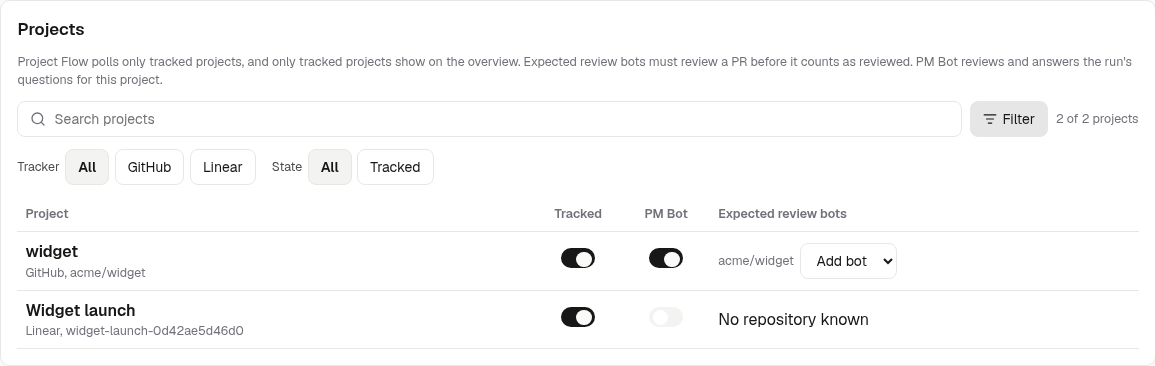
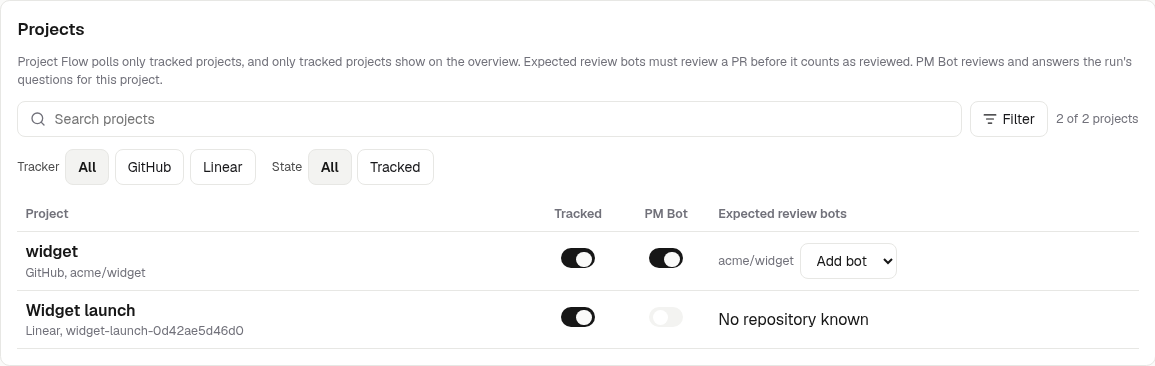
test(proof): record the revision of each shot
Add a capture script that takes the before shots from the merge base, adds
the States, Review and Factories sections and records both revisions with
each hash.

Changed region(s): [[0.8416, 0.2705, 0.9039, 0.3907]]

diff --git a/proof/item-779/CAPTURES.md b/proof/item-779/CAPTURES.md
@@ -1,0 +1,19 @@
+# Captures of ticket 779
+
+`proof/capture-779.sh` wrote this file. Run the script again to regenerate it.
+
+- Each `*-before.png` shows the merge base `224ce720e8641c081c27883f6bb763827e6fad59`.
+- Each `*-after.png` shows `7d487caa0ed51bf2aa4f606d1536226fda62c54e`.
+- The base tree serves `proof/serve-779.ts` and `proof/recorded.ts` of the second revision.
+
+| Shot               | Before sha256                                                      | After sha256                                                       | Same |
+| ------------------ | ------------------------------------------------------------------ | ------------------------------------------------------------------ | ---- |
[9 lines of base64/hex data omitted]
